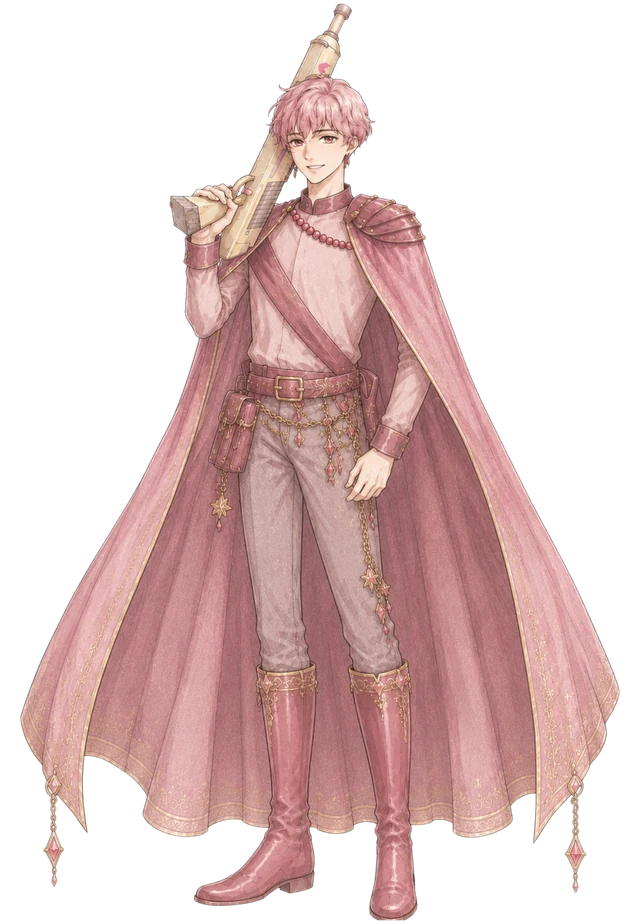
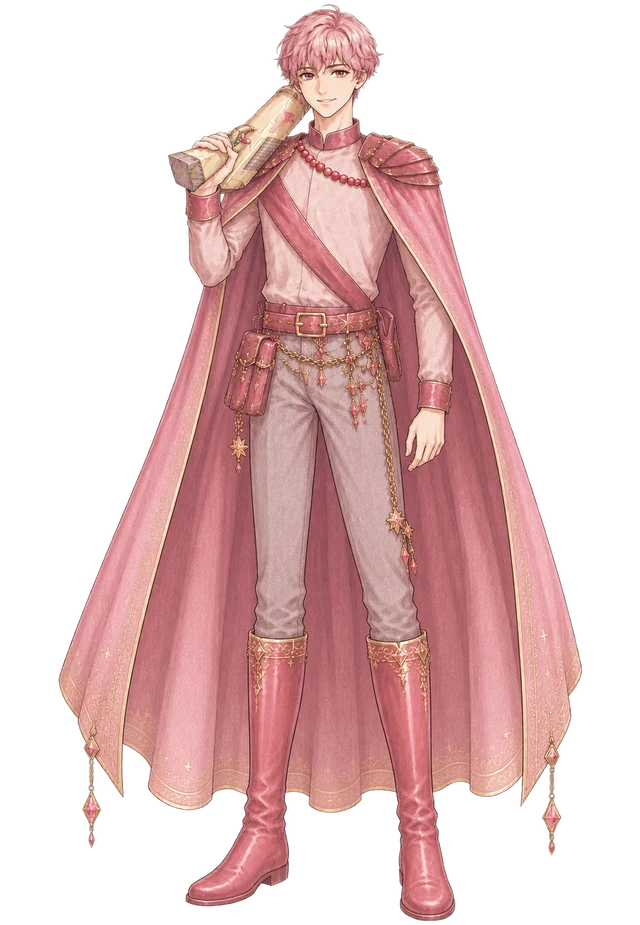
男性の赤い空歩く人・青い猿・青い鷲・黄色い星・黄色い人を描き直した全身像に差し替え、胸像を作り直す

diff --git a/scripts/generateSealCutouts.py b/scripts/generateSealCutouts.py
@@ -106,13 +106,14 @@ def limit_width(im: Image.Image, max_w: int) -> Image.Image:
 # 指摘があったものだけ、全身の高さのこの割合までを必ず残し、足りない横幅は透明で左右に足して
 # 縦横比を揃える(下を削らない)。そのぶん画面上では人物が少し小さく、体まで見えるようになる。
 # キーは (sealIndex, suffix)。'' が女性、'-male' が男性。
+# 2026-11-22: 男性の赤い空歩く人・青い猿・青い鷲・黄色い星・黄色い人は全身像を描き直してもらったので、ここから外した。
 BUST_KEEP_MIN: dict[tuple[int, str], float] = {
-    (14, '-male'): 0.34,  # 青い鷲(男性)
     (9, ''): 0.34,        # 白い犬(女性)
     (9, '-male'): 0.34,   # 白い犬(男性)
-    (11, '-male'): 0.34,  # 黄色い人(男性)
-    (12, '-male'): 0.34,  # 赤い空歩く人(男性)
     (13, ''): 0.34,       # 白い魔法使い(女性)
+    # 描き直し後も細身で、何もしないと全身の 2割強しか残らない。描き直した他の3人(約 0.28〜0.30)に合わせる
+    (10, '-male'): 0.29,  # 青い猿(男性)
+    (14, '-male'): 0.29,  # 青い鷲(男性)
 }
 
 
